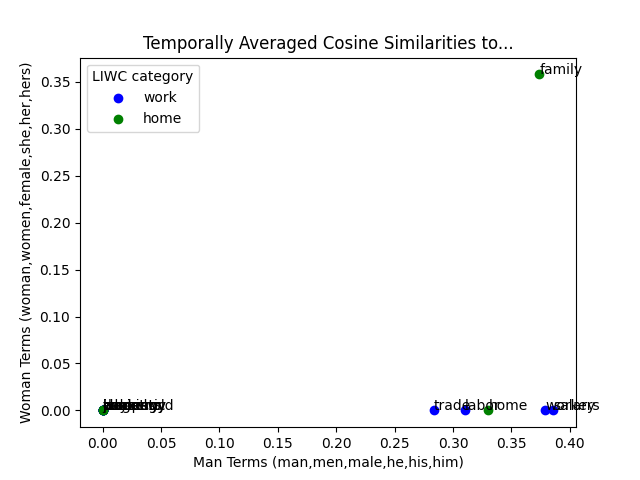
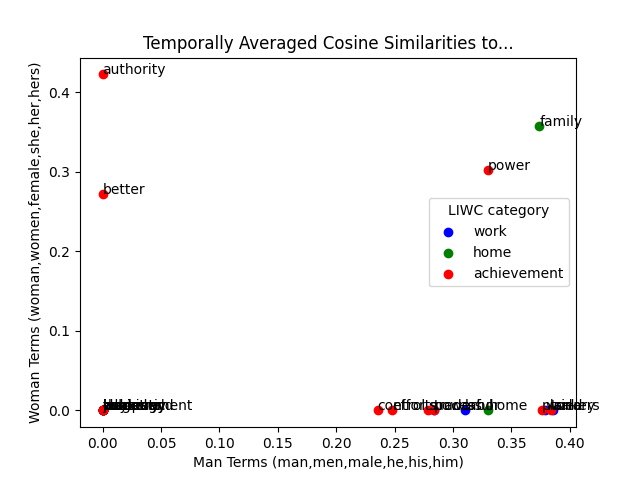
update embedding analysis to include achievement words

diff --git a/temporal_analysis_cosine.py b/temporal_analysis_cosine.py
@@ -25,7 +25,8 @@ man_words = set(['man', 'men', 'male', 'he', 'his', 'him'])
 woman_words = set(['woman', 'women', 'female', 'she', 'her', 'hers'])
 home_words = set(['home', 'domestic', 'household', 'chores', 'family'])
 work_words = set(['work', 'labor', 'workers', 'economy', 'trade', 'business', 'jobs', 'company', 'industry', 'pay', 'working', 'salary', 'wage'])
-achievement_words = set() #TODO: FILL THIS IN
+achievement_words = set(['power', 'authority', 'achievement', 'control', 'won', 'powerful', 'success', 'better', 'efforts', 'plan', 'tried', 'leader'])
+
 
 def _cosine_similarity(vec_1, vec_2):
     # Calculate the cosine similarity
@@ -59,6 +60,8 @@ def get_temporal_cosine_similarities():
     man_work_all_yr_cos = {}
     woman_home_all_yr_cos = {}
     man_home_all_yr_cos = {}
+    woman_achiev_all_yr_cos = {}
+    man_achiev_all_yr_cos = {}
     for file in os.listdir(os.fsencode(textbook_chronological_dir)):
          filename = os.fsdecode(file)
          if filename.endswith(".txt"):
@@ -67,16 +70,22 @@ def get_temporal_cosine_similarities():
              man_work_yr = {}
              woman_home_yr = {}
              man_home_yr = {}
+             woman_achiev_yr = {}
+             man_achiev_yr = {}
              woman_work_all_yr_cos[year] = woman_work_yr
              man_work_all_yr_cos[year] = man_work_yr
              woman_home_all_yr_cos[year] = woman_home_yr
              man_home_all_yr_cos[year] = man_home_yr
+             woman_achiev_all_yr_cos[year] = woman_achiev_yr
+             man_achiev_all_yr_cos[year] = man_achiev_yr
              with open(textbook_chronological_dir + filename, 'r') as textbook_reader:
                 for sentence in list(textbook_reader)[:NUM_ANALYSIS_SENTENCES]:
                     _analyze_relations(woman_words, work_words, woman_work_yr, sentence, model)
                     _analyze_relations(man_words, work_words, man_work_yr, sentence, model)
                     _analyze_relations(woman_words, home_words, woman_home_yr, sentence, model)
                     _analyze_relations(man_words, home_words, man_home_yr, sentence, model)
+                    _analyze_relations(woman_words, achievement_words, woman_achiev_yr, sentence, model)
+                    _analyze_relations(man_words, achievement_words, man_achiev_yr, sentence, model)
     with open(results_dir + "woman_work_all_yr_cos.txt", "w") as output:
         output.write(str(woman_work_all_yr_cos))
     with open(results_dir + "man_work_all_yr_cos.txt", "w") as output:
@@ -85,8 +94,12 @@ def get_temporal_cosine_similarities():
         output.write(str(woman_home_all_yr_cos))
     with open(results_dir + "man_home_all_yr_cos.txt", "w") as output:
         output.write(str(man_home_all_yr_cos))
+    with open(results_dir + "woman_achiev_all_yr_cos.txt", "w") as output:
+        output.write(str(woman_achiev_all_yr_cos))
+    with open(results_dir + "man_achiev_all_yr_cos.txt", "w") as output:
+        output.write(str(man_achiev_all_yr_cos))
 
-    return woman_work_all_yr_cos, man_work_all_yr_cos, woman_home_all_yr_cos, man_home_all_yr_cos
+    return woman_work_all_yr_cos, man_work_all_yr_cos, woman_home_all_yr_cos, man_home_all_yr_cos, woman_achiev_all_yr_cos, man_achiev_all_yr_cos
 
 def _get_years_and_sims(cosine_similarities, interest_word):
     years = []
@@ -126,7 +139,7 @@ def _get_average_similarity(sims, interest_word):
     return sum/count
 
 
-def plot_static(woman_work, woman_home, man_work, man_home):
+def plot_static(woman_work, woman_home, woman_achiev, man_work, man_home, man_achiev):
     woman_work_avg = []
     man_work_avg = []
     for work_word in work_words:
@@ -141,12 +154,22 @@ def plot_static(woman_work, woman_home, man_work, man_home):
         man_avg = _get_average_similarity(man_home, home_word)
         woman_home_avg.append(woman_avg)
         man_home_avg.append(man_avg)
+    woman_achiev_avg = []
+    man_achiev_avg = []
+    for achiev_word in achievement_words:
+        woman_avg = _get_average_similarity(woman_achiev, achiev_word)
+        man_avg = _get_average_similarity(man_achiev, achiev_word)
+        woman_achiev_avg.append(woman_avg)
+        man_achiev_avg.append(man_avg)
     plt.scatter(man_work_avg, woman_work_avg, color='b', label='work')
     for i, work_word in enumerate(work_words):
         plt.annotate(work_word, (man_work_avg[i], woman_work_avg[i]))
     plt.scatter(man_home_avg, woman_home_avg, color='g', label='home')
     for i, home_word in enumerate(home_words):
         plt.annotate(home_word, (man_home_avg[i], woman_home_avg[i]))
+    plt.scatter(man_achiev_avg, woman_achiev_avg, color='r', label='achievement')
+    for i, achiev_word in enumerate(achievement_words):
+        plt.annotate(achiev_word, (man_achiev_avg[i], woman_achiev_avg[i]))
     plt.xlabel('Man Terms (man,men,male,he,his,him)')
     plt.ylabel('Woman Terms (woman,women,female,she,her,hers)')
     plt.title('Temporally Averaged Cosine Similarities to...')
@@ -157,14 +180,17 @@ def plot_static(woman_work, woman_home, man_work, man_home):
 def main():
     finetune_bert.gpu_check()
     os.makedirs(results_dir, exist_ok=True)
-    woman_work_all_yr_cos, man_work_all_yr_cos, woman_home_all_yr_cos, man_home_all_yr_cos = get_temporal_cosine_similarities()
+    woman_work_all_yr_cos, man_work_all_yr_cos, woman_home_all_yr_cos, man_home_all_yr_cos, woman_achiev_all_yr_cos, man_achiev_all_yr_cos = get_temporal_cosine_similarities()
     for work_word in work_words:
         plot_temporal_changes(woman_work_all_yr_cos, man_work_all_yr_cos, work_word, "work")
         print("completed plot for word %s"%work_word)
     for home_word in home_words:
         plot_temporal_changes(woman_home_all_yr_cos, man_home_all_yr_cos, home_word, "home")
         print("completed plot for word %s"%home_word)
-    plot_static(woman_work_all_yr_cos, woman_home_all_yr_cos, man_work_all_yr_cos, man_home_all_yr_cos)
+    for achiev_word in achievement_words:
+        plot_temporal_changes(woman_achiev_all_yr_cos, man_achiev_all_yr_cos, achiev_word, "achievement")
+        print("completed plot for word %s"%achiev_word)
+    plot_static(woman_work_all_yr_cos, woman_home_all_yr_cos, woman_achiev_all_yr_cos, man_work_all_yr_cos, man_home_all_yr_cos, man_achiev_all_yr_cos)
     print("completed static plot")
 
 if __name__ == '__main__':

diff --git a/extract_embeddings.py b/extract_embeddings.py
@@ -14,7 +14,7 @@ def _sentence_to_tokens(sentence):
     # convert to BERT's tokenizer format
     marked_sentence = '[CLS] ' + sentence + ' [SEP]'
     # Tokenize our sentence with the BERT tokenizer.
-    tokenized_text = tokenizer.tokenize(marked_sentence)
+    tokenized_text = tokenizer.tokenize(marked_sentence)[:finetune_bert.block_size]
     # Map the token strings to their vocabulary indeces.
     indexed_tokens = tokenizer.convert_tokens_to_ids(tokenized_text)
     # Mark each of the tokens as belonging to sentence "1" (to mark everything is
